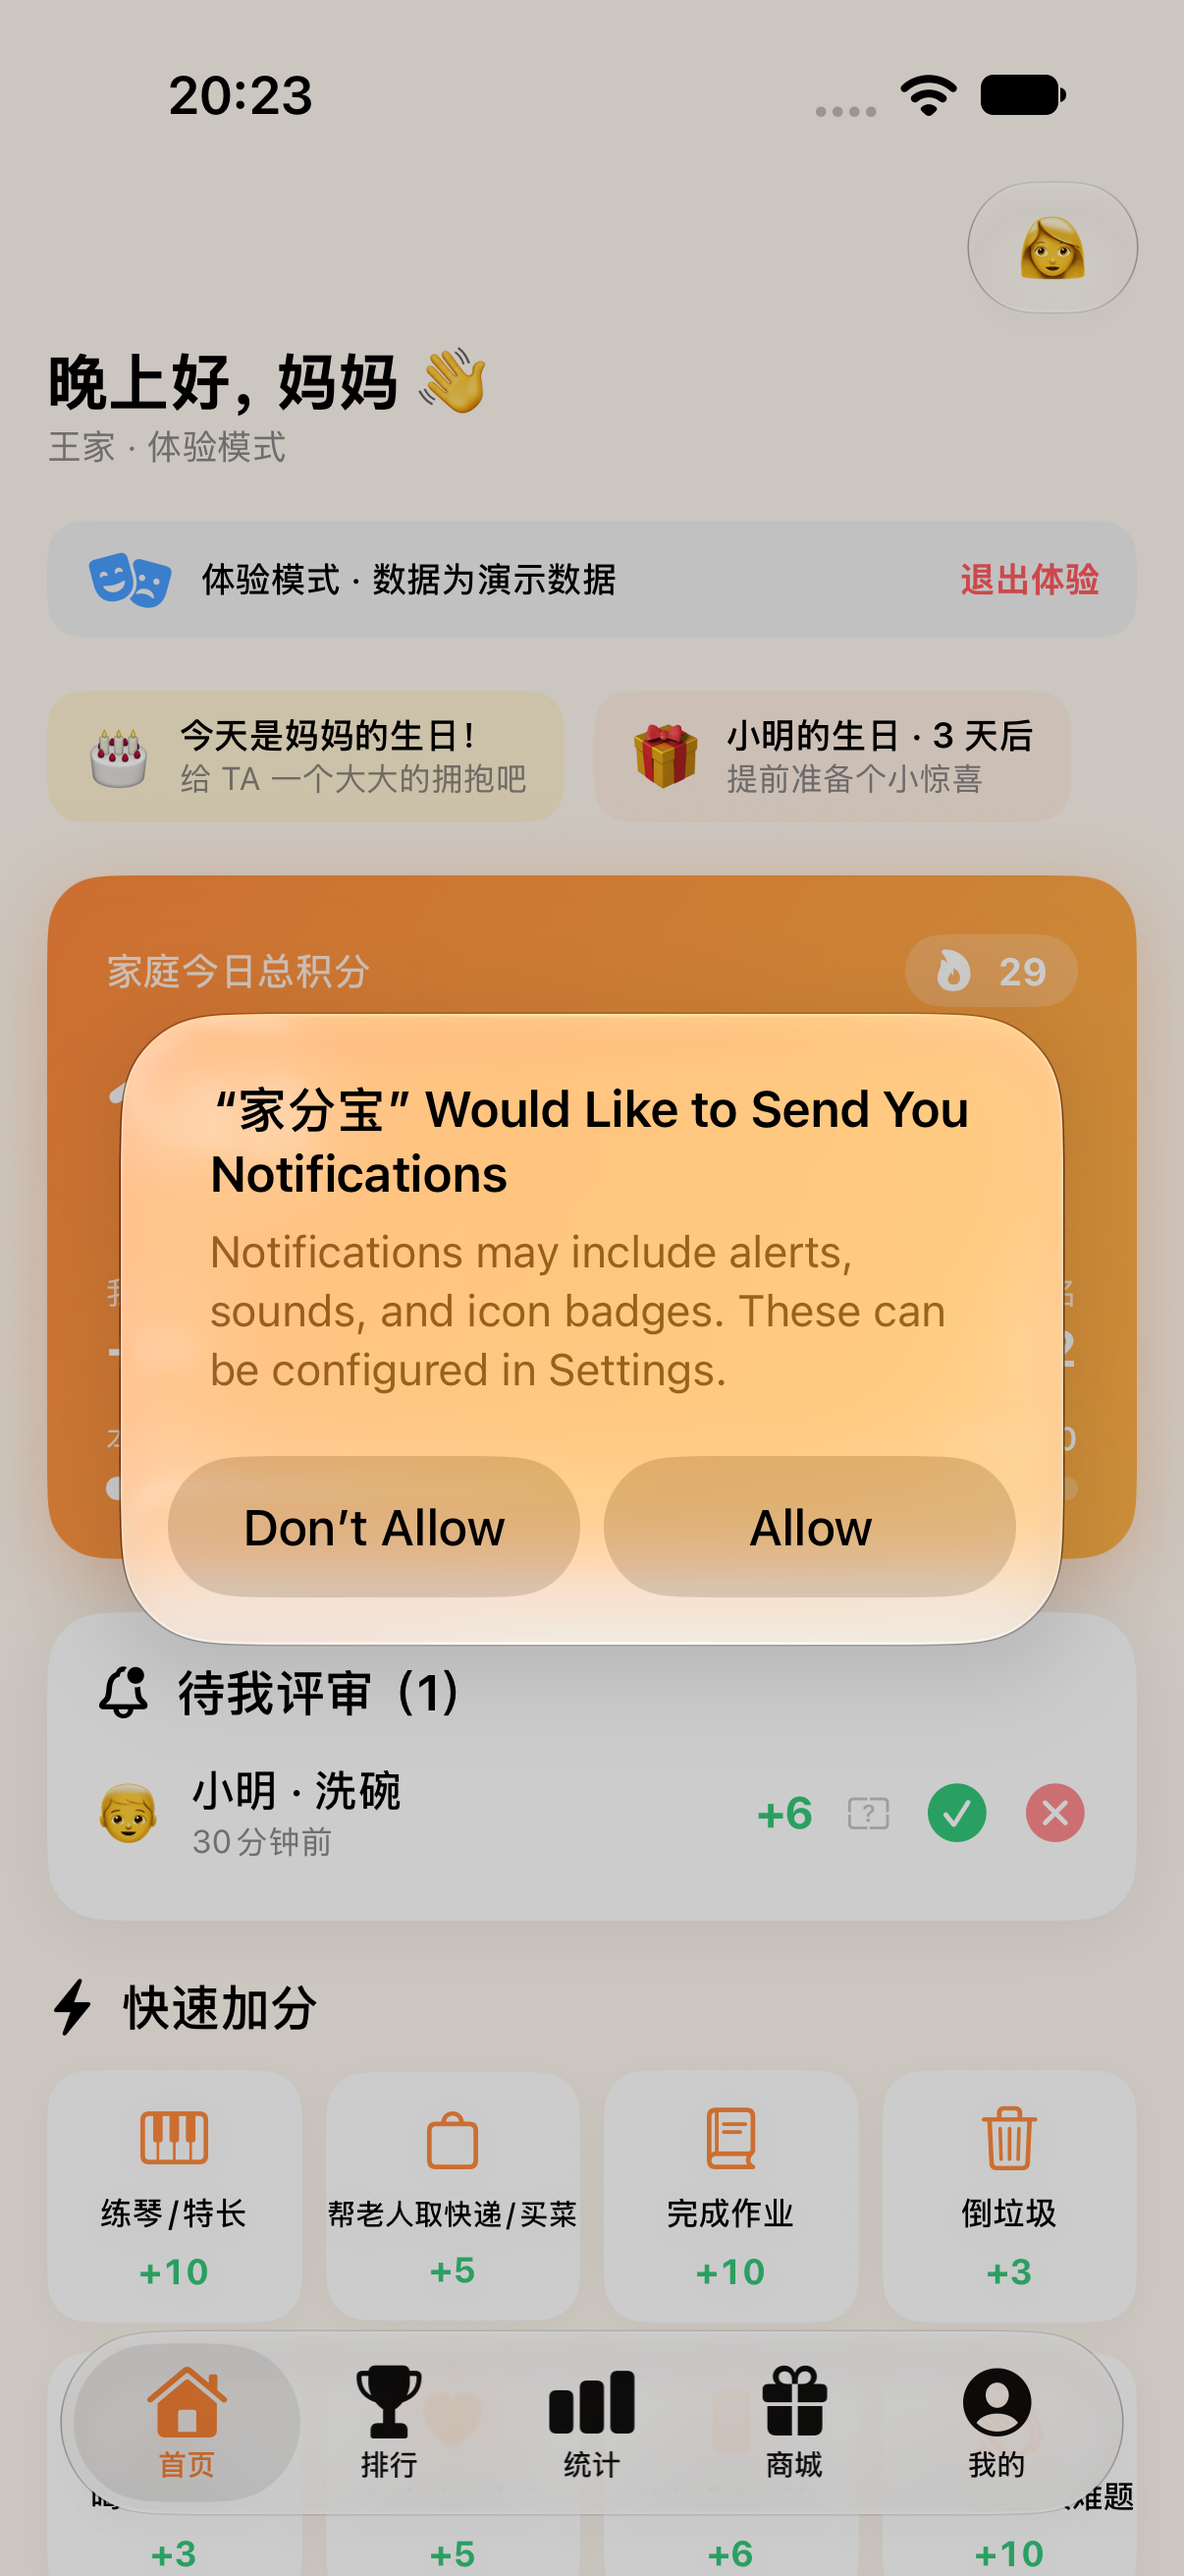
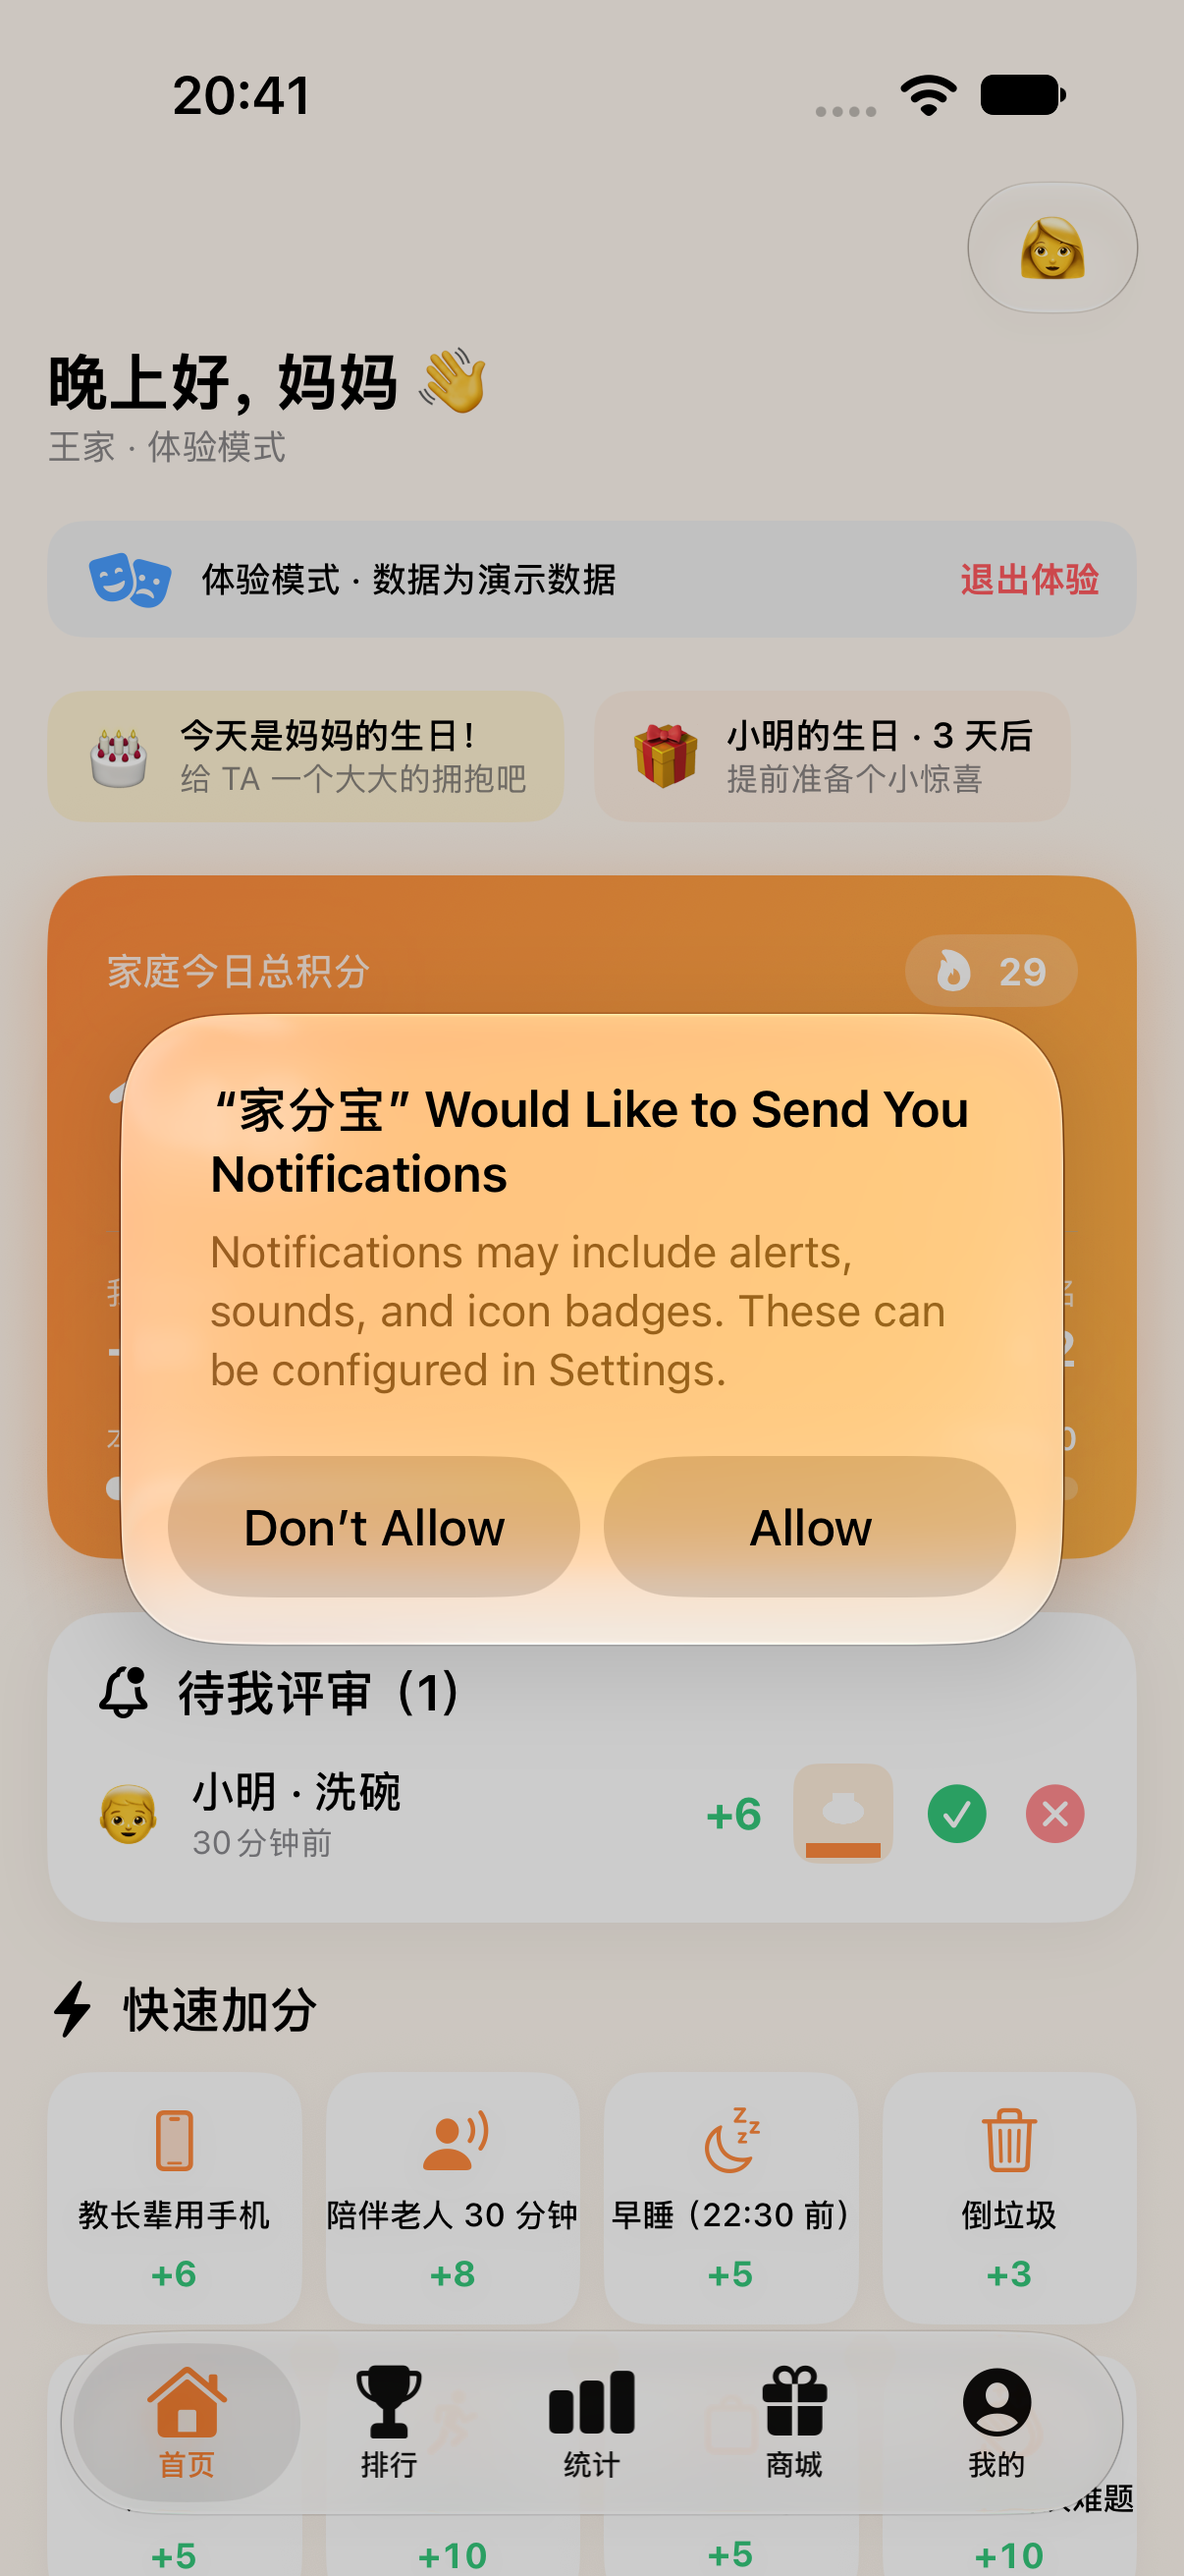
feat(v3.1): 凭证全链路回看——家庭动态行缩略图(点击全屏)、审计日志加分/评审行缩略图、演示数据带凭证样例；85 测试全绿

diff --git a/FamilyScore/Features/Profile/ProfileView.swift b/FamilyScore/Features/Profile/ProfileView.swift
@@ -550,26 +550,54 @@ struct AuditLogSheet: View {
                 }
                 Section("操作记录") {
                     ForEach(logs.prefix(60)) { log in
-                        VStack(alignment: .leading, spacing: 3) {
-                            HStack {
-                                Text("\(memberNames[log.actorID] ?? "成员") · \(actionLabel(log.action))")
-                                    .font(.caption.weight(.semibold))
-                                    .foregroundStyle(Theme.primary)
-                                Spacer()
-                                Text(log.createdAt, format: .dateTime.month().day().hour().minute())
-                                    .font(.caption2)
-                                    .foregroundStyle(.secondary)
-                            }
-                            if let reason = log.reason {
-                                Text(reason).font(.caption).foregroundStyle(.secondary)
-                            }
-                        }
+                        auditRow(log)
                     }
                 }
             }
             .navigationTitle("审计日志")
             .navigationBarTitleDisplayMode(.inline)
         }
+    }
+
+    /// 审计行：加分/评审类操作可查看当时的打卡凭证
+    @ViewBuilder
+    private func auditRow(_ log: AuditLog) -> some View {
+        VStack(alignment: .leading, spacing: 3) {
+            HStack(spacing: 8) {
+                Text("\(memberNames[log.actorID] ?? "成员") · \(actionLabel(log.action))")
+                    .font(.caption.weight(.semibold))
+                    .foregroundStyle(Theme.primary)
+                Spacer()
+                if let data = proofData(for: log), let img = UIImage(data: data) {
+                    Button {
+                        proofFullscreen = img
+                    } label: {
+                        Image(uiImage: img)
+                            .resizable().scaledToFill()
+                            .frame(width: 30, height: 30)
+                            .clipShape(RoundedRectangle(cornerRadius: 7))
+                    }
+                    .buttonStyle(.plain)
+                    .accessibilityLabel("查看凭证")
+                }
+                Text(log.createdAt, format: .dateTime.month().day().hour().minute())
+                    .font(.caption2)
+                    .foregroundStyle(.secondary)
+            }
+            if let reason = log.reason {
+                Text(reason).font(.caption).foregroundStyle(.secondary)
+            }
+        }
+    }
+
+    @State private var proofFullscreen: UIImage?
+
+    private func proofData(for log: AuditLog) -> Data? {
+        guard log.action == .add || log.action == .approve || log.action == .deduct else { return nil }
+        let tid = log.targetID
+        guard let rec = (try? context.fetch(FetchDescriptor<ScoreRecord>(
+            predicate: #Predicate { $0.id == tid })))?.first else { return nil }
+        return rec.proofImageData
     }
 
     private func actionLabel(_ a: AuditAction) -> String {

diff --git a/FamilyScore/Services/DemoData.swift b/FamilyScore/Services/DemoData.swift
@@ -1,5 +1,6 @@
 import Foundation
 import SwiftData
+import UIKit
 
 /// 体验模式：演示家庭"王家"五口人 × 30 天历史（§19.1 冷启动体验模式）
 /// 确定性随机（固定种子），保证每次生成的数据一致，便于演示与测试。
@@ -118,11 +119,13 @@ enum DemoData {
             context.insert(WishListItem(memberID: ming.id, rewardID: money.id))
         }
 
-        // 小明以儿童身份刚提交的洗碗记录（带"凭证"备注）→ 妈妈首页可见待评审
+        // 小明以儿童身份刚提交的洗碗记录（带拍照凭证）→ 妈妈首页可见待评审、动态可回看
         if let dish = rules.first(where: { $0.name == "洗碗" }) {
             _ = try? ScoreEngine.submit(
                 member: ming, family: family, rule: dish,
-                note: "晚饭的碗我来洗", at: now.addingTimeInterval(-1800),
+                note: "晚饭的碗我来洗",
+                proofImageData: DemoData.sampleProofImage(),
+                at: now.addingTimeInterval(-1800),
                 actorIsAdmin: false, approver: nil, context: context)
         }
 
@@ -132,5 +135,21 @@ enum DemoData {
 
         try? context.save()
         return (family, members)
+    }
+
+    /// 演示凭证图：浅橙底 + 白碗简笔（UIGraphics 绘制，确定性）
+    static func sampleProofImage() -> Data? {
+        let size = CGSize(width: 480, height: 640)
+        let r = UIGraphicsImageRenderer(size: size)
+        let img = r.image { ctx in
+            UIColor(red: 1.00, green: 0.93, blue: 0.86, alpha: 1).setFill()
+            ctx.cgContext.fill(CGRect(origin: .zero, size: size))
+            UIColor.white.setFill()
+            ctx.cgContext.fillEllipse(in: CGRect(x: 140, y: 250, width: 200, height: 120))
+            ctx.cgContext.fill(CGRect(x: 190, y: 220, width: 100, height: 40))
+            UIColor(red: 1.00, green: 0.54, blue: 0.24, alpha: 1).setFill()
+            ctx.cgContext.fill(CGRect(x: 60, y: 460, width: 360, height: 70))
+        }
+        return img.jpegData(compressionQuality: 0.85)
     }
 }

diff --git a/FamilyScore/Components/HomeComponents.swift b/FamilyScore/Components/HomeComponents.swift
@@ -167,9 +167,11 @@ struct TaskRowView: View {
     }
 }
 
-/// 家庭动态行
+/// 家庭动态行（含凭证缩略图，点击全屏回看）
 struct FeedRowView: View {
     let item: HomeSummary.FeedItem
+    var onShowProof: ((Data) -> Void)? = nil
+
     var body: some View {
         HStack(spacing: 10) {
             Text(item.member.emoji).font(.subheadline)
@@ -182,6 +184,28 @@ struct FeedRowView: View {
                     .foregroundStyle(.secondary)
             }
             Spacer()
+            if let data = item.proofImageData {
+                Button {
+                    Haptics.light()
+                    onShowProof?(data)
+                } label: {
+                    if let img = UIImage(data: data) {
+                        Image(uiImage: img)
+                            .resizable().scaledToFill()
+                            .frame(width: 30, height: 30)
+                            .clipShape(RoundedRectangle(cornerRadius: 7))
+                            .overlay(alignment: .bottomTrailing) {
+                                Image(systemName: "camera.badge.ellipsis")
+                                    .font(.system(size: 9))
+                                    .foregroundStyle(.white)
+                                    .padding(1)
+                                    .background(.black.opacity(0.45), in: Circle())
+                            }
+                    }
+                }
+                .buttonStyle(.plain)
+                .accessibilityLabel("查看凭证")
+            }
             Text(item.points >= 0 ? "+\(item.points)" : "\(item.points)")
                 .font(.caption.weight(.bold).monospacedDigit())
                 .foregroundStyle(item.points >= 0 ? Theme.addGreen : Theme.deductRed)

diff --git a/FamilyScoreTests/ReviewFlowTests.swift b/FamilyScoreTests/ReviewFlowTests.swift
@@ -206,3 +206,24 @@ final class ReviewFlowTests: XCTestCase {
         _ = family; _ = members
     }
 }
+
+// MARK: v3.1 凭证回看：家庭动态携带凭证数据
+extension ReviewFlowTests {
+    func testFeedCarriesProofImage() throws {
+        let f = TestDB.makeFamily(context: context)
+        let rule = TestDB.makeRule(f.family, points: 5, name: "洗碗")
+        context.insert(rule)
+        // TestDB 默认免评审 → 直接入账，进家庭动态
+        _ = try ScoreEngine.submit(member: f.child, family: f.family, rule: rule,
+                                   proofImageData: DemoData.sampleProofImage(),
+                                   at: .testNow, actorIsAdmin: false, context: context)
+        let summary = HomeSummary.compute(
+            family: f.family, me: f.mom,
+            members: [f.dad, f.mom, f.child],
+            rules: [rule], records: try context.fetch(FetchDescriptor<ScoreRecord>()),
+            assignments: [], now: .testNow, context: context)
+        let item = summary.feed.first { $0.member.id == f.child.id }
+        XCTAssertNotNil(item?.proofImageData, "家庭动态应携带凭证供回看")
+        XCTAssertNotNil(UIImage(data: item!.proofImageData!))
+    }
+}

diff --git a/FamilyScore/Services/UIAggregate.swift b/FamilyScore/Services/UIAggregate.swift
@@ -29,6 +29,7 @@ struct HomeSummary {
         let text: String
         let points: Int
         let time: Date
+        var proofImageData: Data?   // 打卡凭证（点击全屏回看，v3.1）
     }
 
     static func compute(family: Family, me: Member, members: [Member],
@@ -105,7 +106,8 @@ struct HomeSummary {
             guard let m = byID[r.memberID] else { return nil }
             let ruleName = r.ruleID.flatMap { rulesByID[$0]?.name } ?? (r.note ?? "记录")
             return FeedItem(id: r.id, member: m,
-                            text: ruleName, points: r.points, time: r.createdAt)
+                            text: ruleName, points: r.points, time: r.createdAt,
+                            proofImageData: r.proofImageData)
         }
 
         return HomeSummary(

diff --git a/FamilyScore/Features/Home/HomeView.swift b/FamilyScore/Features/Home/HomeView.swift
@@ -273,7 +273,9 @@ struct HomeView: View {
             Label("家庭动态", systemImage: "bubble.left.and.bubble.right.fill")
                 .font(.headline)
             ForEach(s.feed) { item in
-                FeedRowView(item: item)
+                FeedRowView(item: item) { data in
+                    if let img = UIImage(data: data) { proofFullscreen = img }
+                }
             }
         }
         .padding(16)
